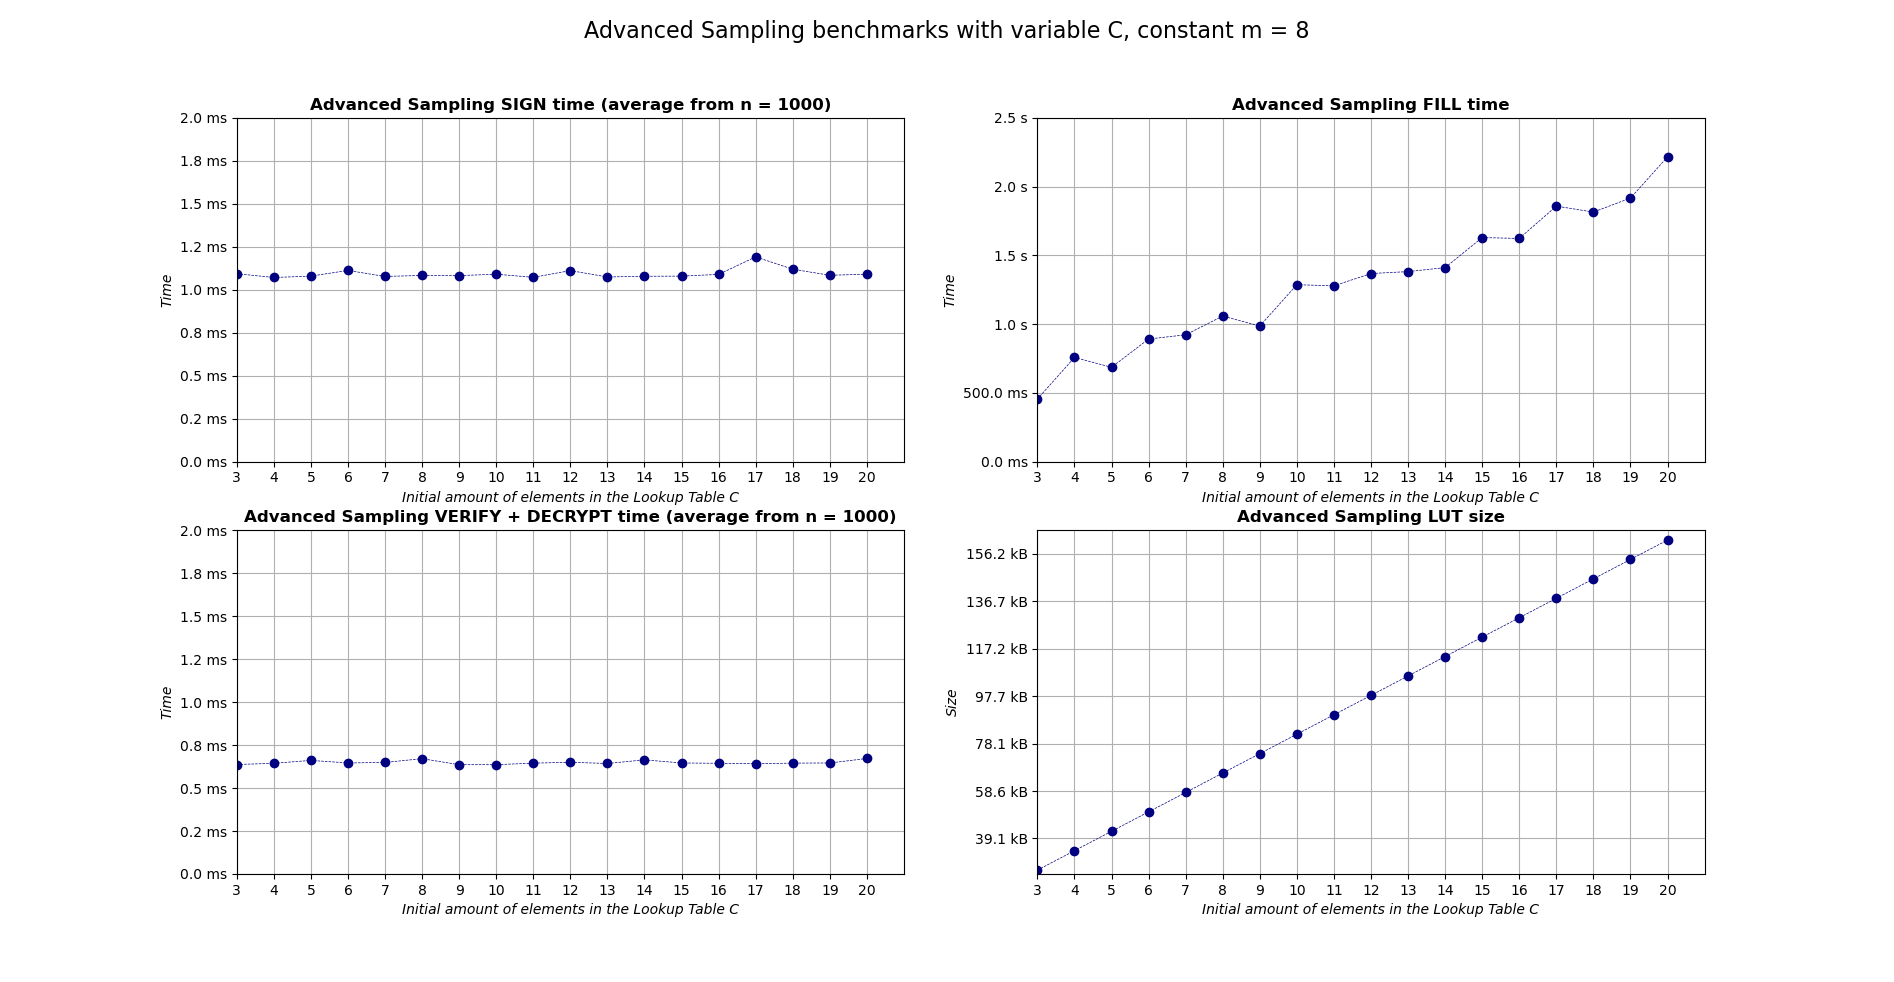
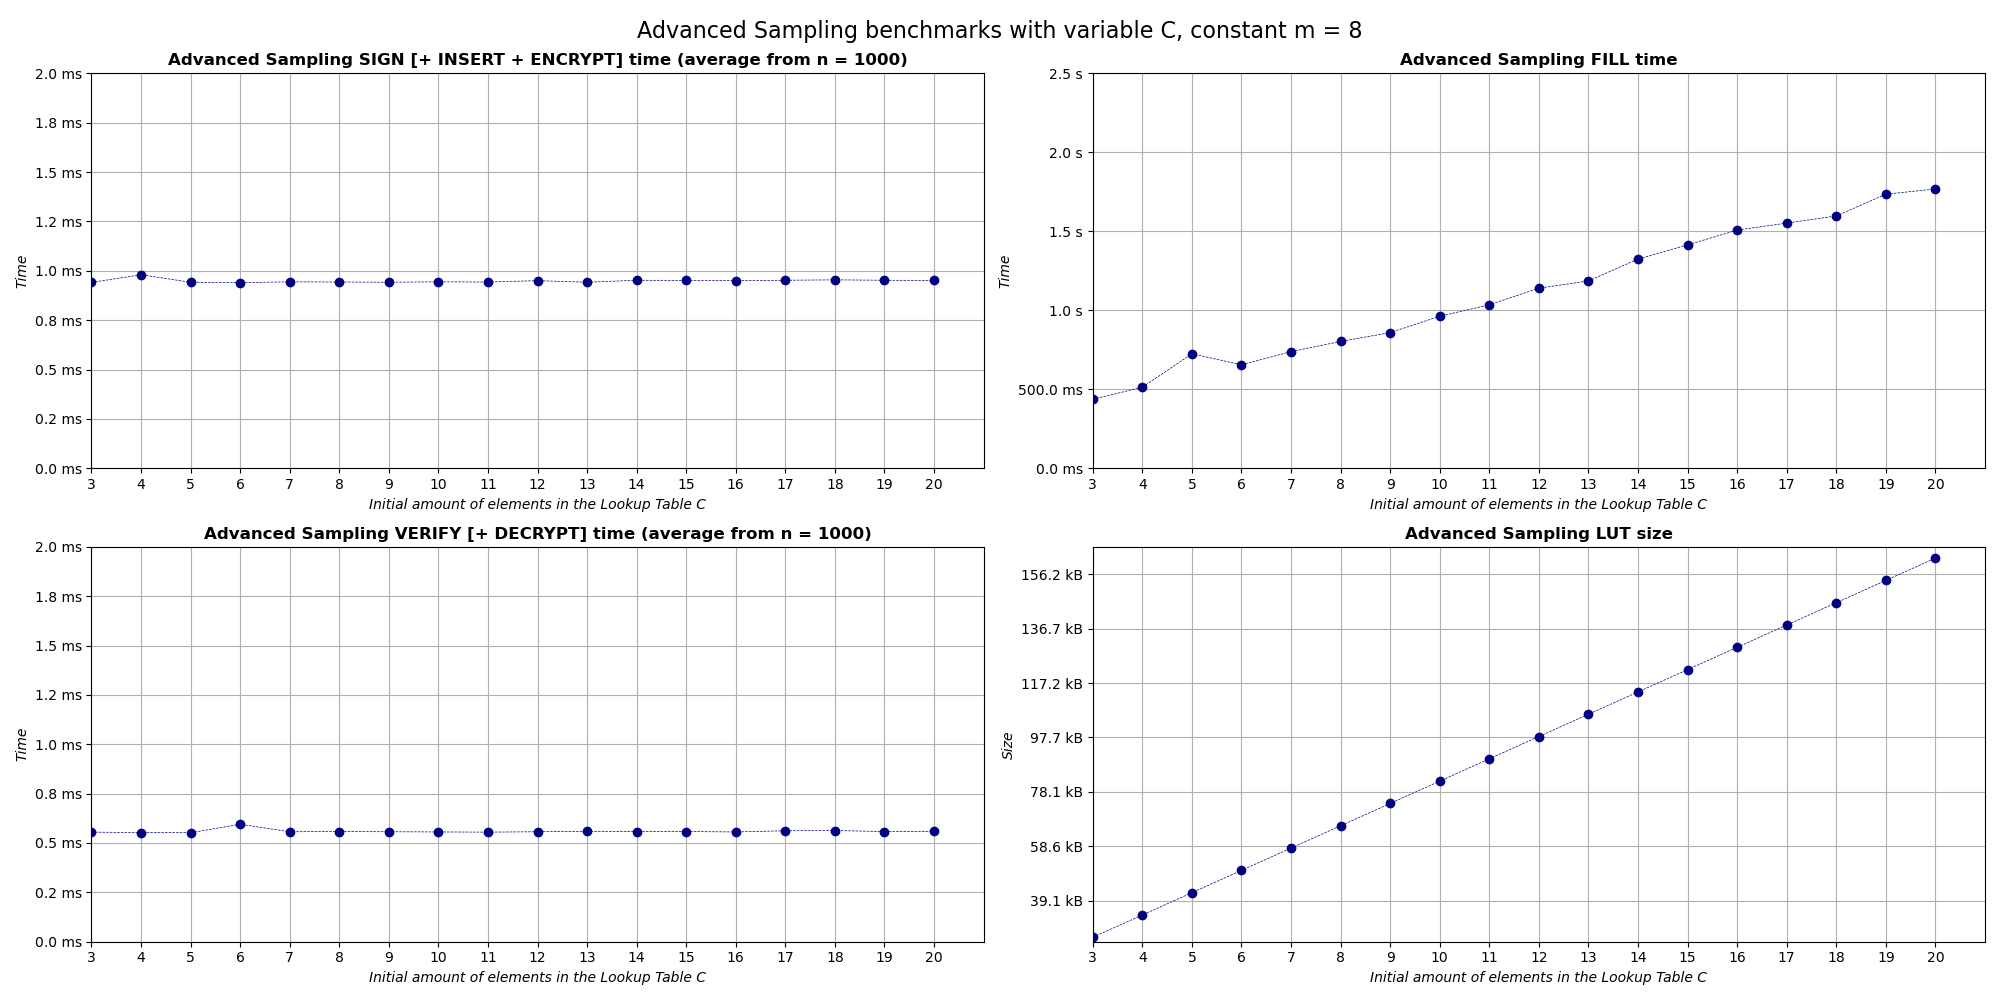
Add automatic benchmark visualization

diff --git a/benchmarks/visualize_benchmarks.py b/benchmarks/visualize_benchmarks.py
@@ -34,10 +34,15 @@ def time_lossy_fmt(x, pos):
     x /= 60
     return "%3.2f %s" % (x, x_unit[2])
 
+fig_size = [10, 10]
+fig_size_wide = [20, 10]
+tight_layout = False
 
 x_m = [i for i in range(1, 17)]
-y_rs_sign = [0.678, 0.733, 0.842, 0.923, 1.201, 1.669, 2.849, 4.706, 8.209, 18.922, 33.353, 63.038, 121.048, 244.282, 624.518, 1045.035]
-y_rs_verif = [0.585, 0.603, 0.656, 0.670, 0.682, 1.050, 0.729, 0.673, 0.684, 0.683, 0.702, 0.695, 0.688, 0.701, 1.011, 0.710]
+#y_rs_sign = [0.678, 0.733, 0.842, 0.923, 1.201, 1.669, 2.849, 4.706, 8.209, 18.922, 33.353, 63.038, 121.048, 244.282, 624.518, 1045.035]
+#y_rs_verif = [0.585, 0.603, 0.656, 0.670, 0.682, 1.050, 0.729, 0.673, 0.684, 0.683, 0.702, 0.695, 0.688, 0.701, 1.011, 0.710]
+y_rs_sign = [0 for i in range(1, 17)]
+y_rs_verif = [0 for i in range(1, 17)]
 
 with open("rs_benchmark_results.out", "r") as f:
     column_names = f.readline().strip().split(",")
@@ -52,10 +57,11 @@ with open("rs_benchmark_results.out", "r") as f:
 print(y_rs_sign)
 print(y_rs_verif)
 
-y_as_fill = [3.640, 7.861, 16.459, 39.720, 75.515, 182.534, 309.605, 661.855, 1499.275, 3569.076, 6582.784, 14468.181, 27361.288, 63752.537, 124624.051, 238438.082]
-y_as_lut_size = [344, 680, 1352, 2696, 5381, 10760, 21512, 43012, 86011, 172022, 344039, 688051, 1376108, 2752223, 5504416, 11008758]
-y_as_sign = [1.011, 1.093, 1.130, 1.130, 1.120, 1.122, 1.132, 1.104, 1.111, 1.168, 1.099, 1.136, 1.181, 1.184, 1.162, 1.120]
-y_as_verif = [0.635, 0.630, 0.655, 0.635, 0.680, 0.653, 0.649, 0.693, 0.655, 0.646, 0.642, 0.660, 0.749, 0.686, 0.672, 0.649]
+#y_as_fill = [3.640, 7.861, 16.459, 39.720, 75.515, 182.534, 309.605, 661.855, 1499.275, 3569.076, 6582.784, 14468.181, 27361.288, 63752.537, 124624.051, 238438.082]
+#y_as_lut_size = [344, 680, 1352, 2696, 5381, 10760, 21512, 43012, 86011, 172022, 344039, 688051, 1376108, 2752223, 5504416, 11008758]
+#y_as_sign = [1.011, 1.093, 1.130, 1.130, 1.120, 1.122, 1.132, 1.104, 1.111, 1.168, 1.099, 1.136, 1.181, 1.184, 1.162, 1.120]
+#y_as_verif = [0.635, 0.630, 0.655, 0.635, 0.680, 0.653, 0.649, 0.693, 0.655, 0.646, 0.642, 0.660, 0.749, 0.686, 0.672, 0.649]
+y_as_fill, y_as_lut_size, y_as_sign, y_as_verif = ([0 for _ in range(1, 17)] for _ in range(4))
 
 with open("as_var_M_benchmark_results.out", "r") as f:
     column_names = f.readline().strip().split(",")
@@ -76,10 +82,11 @@ print(y_as_sign)
 print(y_as_verif)
 
 x_C = [i for i in range(3, 21)]
-y_as_fill_const_m = [454.498, 757.061, 685.654, 891.153, 921.880, 1058.048, 985.858, 1286.219, 1278.191, 1367.442, 1381.675, 1410.611, 1629.252, 1622.521, 1857.896, 1814.492, 1916.452, 2216.010]
-y_as_lut_size_const_m = [26630, 34822, 43013, 51204, 59390, 67591, 75781, 83969, 92158, 100348, 108541, 116730, 124921, 133114, 141301, 149505, 157691, 165878]
-y_as_sign_const_m = [1.093, 1.071, 1.079, 1.112, 1.077, 1.083, 1.082, 1.090, 1.072, 1.111, 1.074, 1.078, 1.079, 1.089, 1.191, 1.119, 1.084, 1.090]
-y_as_verif_const_m = [0.637, 0.644, 0.661, 0.646, 0.649, 0.671, 0.636, 0.636, 0.645, 0.650, 0.643, 0.664, 0.646, 0.644, 0.642, 0.645,0.646,  0.672]
+#y_as_fill_const_m = [454.498, 757.061, 685.654, 891.153, 921.880, 1058.048, 985.858, 1286.219, 1278.191, 1367.442, 1381.675, 1410.611, 1629.252, 1622.521, 1857.896, 1814.492, 1916.452, 2216.010]
+#y_as_lut_size_const_m = [26630, 34822, 43013, 51204, 59390, 67591, 75781, 83969, 92158, 100348, 108541, 116730, 124921, 133114, 141301, 149505, 157691, 165878]
+#y_as_sign_const_m = [1.093, 1.071, 1.079, 1.112, 1.077, 1.083, 1.082, 1.090, 1.072, 1.111, 1.074, 1.078, 1.079, 1.089, 1.191, 1.119, 1.084, 1.090]
+#y_as_verif_const_m = [0.637, 0.644, 0.661, 0.646, 0.649, 0.671, 0.636, 0.636, 0.645, 0.650, 0.643, 0.664, 0.646, 0.644, 0.642, 0.645,0.646,  0.672]
+y_as_fill_const_m, y_as_lut_size_const_m, y_as_sign_const_m, y_as_verif_const_m = ([0 for _ in range(3, 21)] for _ in range(4))
 
 with open("as_var_C_benchmark_results.out", "r") as f:
     column_names = f.readline().strip().split(",")
@@ -101,14 +108,15 @@ print(y_as_verif_const_m)
 
 print(len(x_C), len(y_as_fill_const_m), len(y_as_lut_size_const_m), len(y_as_sign_const_m), len(y_as_verif_const_m))
 
-y_baseline_sign = [0.315 for x in range(1, 17)]
-y_baseline_verif = [0.288 for x in range(1, 17)]
+#y_baseline_sign = [0.315 for x in range(1, 17)]
+#y_baseline_verif = [0.288 for x in range(1, 17)]
+y_baseline_sign, y_baseline_verif = ([0 for _ in range(1, 17)] for _ in range(2))
 
 with open("ecdsa_benchmark_results.out", "r") as f:
     column_names = f.readline().strip().split(",")
     for i, line in enumerate(f):
         vals = line.strip().split(",")
-        y_baseline_sign[i] = float(vals[1])
+        y_baseline_sign[i] = float(vals[0])
         y_baseline_verif[i] = float(vals[1])
 
 y_baseline_sign = [y_baseline_sign[0] for x in range(1, 17)]
@@ -117,18 +125,19 @@ y_baseline_verif = [y_baseline_verif[0] for x in range(1, 17)]
 print(y_baseline_sign)
 print(y_baseline_verif)
 
-fig, axes = plt.subplots(2, 2, figsize=[7,5])
-axes[0,1].set_axis_off()
-axes[1,1].set_axis_off()
+fig, axes = plt.subplots(2, 1, figsize=fig_size, tight_layout=tight_layout)
+#axes[0,1].set_axis_off()
+#axes[1,1].set_axis_off()
+
 xdata = x_m
 ydata = [y_rs_sign, y_rs_verif]
 ylabel = ["Time (log scale)", "Time"]
 ylim = [(0.1, 10 ** 4), (0, 2)]
 scale = ["log", "linear"]
-titles = ["Rejection Sampling SIGN time (average from n = 100)", "Rejection Sampling VERIFY + DECRYPT time (average from n = 100)"]
+titles = ["Rejection Sampling SIGN [+ ENCRYPT] time (average from n = 100)", "Rejection Sampling VERIFY [+ DECRYPT] time (average from n = 100)"]
 fmt = [time_lossy_fmt, time_fmt]
 for i in range(2):
-    ax = axes[i][0]
+    ax = axes[i]
     #fig = plt.figure(figsize=[7,5])
     #ax = f
 
@@ -166,7 +175,9 @@ for i in range(2):
     ttl = ax.title
     ttl.set_weight('bold')
 
-fig, axes = plt.subplots(2, 2, figsize=[7,5])
+fig.savefig("RS.png")
+
+fig, axes = plt.subplots(2, 2, figsize=fig_size_wide, tight_layout=tight_layout)
 xdata = x_m
 ydata = [y_as_sign, y_as_verif, y_as_fill,  y_as_lut_size]
 ylabel = ["Time", "Time", "Time (log scale)",  "Size (log scale)"]
@@ -218,7 +229,9 @@ for i in range(4):
     ttl = ax.title
     ttl.set_weight('bold')
 
-fig, axes = plt.subplots(2, 2, figsize=[7,5])
+fig.savefig("AS_m.png")
+
+fig, axes = plt.subplots(2, 2, figsize=fig_size_wide, tight_layout=tight_layout)
 xdata = x_C
 ydata = [y_as_sign_const_m, y_as_verif_const_m, y_as_fill_const_m,  y_as_lut_size_const_m]
 ylabel = ["Time", "Time", "Time",  "Size"]
@@ -270,12 +283,14 @@ for i in range(4):
     ttl = ax.title
     ttl.set_weight('bold')
 
-# all plots
-fig, axes = plt.subplots(2, 2, figsize=[7,5])
-axes[0,1].set_axis_off()
-axes[1,1].set_axis_off()
+fig.savefig("AS_C.png")
 
-ax = axes[0][0]
+# all plots
+fig, axes = plt.subplots(2, 1, figsize=fig_size, tight_layout=tight_layout)
+#axes[0,1].set_axis_off()
+#axes[1,1].set_axis_off()
+
+ax = axes[0]
 
 # set the grid on
 ax.grid('on')
@@ -321,7 +336,7 @@ ylab.set_size(10)
 ttl = ax.title
 ttl.set_weight('bold')
 
-ax = axes[1][0]
+ax = axes[1]
 
 # set the grid on
 ax.grid('on')
@@ -365,4 +380,5 @@ ylab.set_size(10)
 ttl = ax.title
 ttl.set_weight('bold')
 
-plt.show()
+fig.savefig("All.png")
+#plt.show()

diff --git a/README.md b/README.md
@@ -112,7 +112,7 @@ The recovered message should be the same as provided in the signing step. If its
 
 # Benchmarks
 
-To run benchmarks and visualize, first build and cd into the benchmarks folder:
+To run benchmarks, first build all binaries and cd into the benchmarks folder:
 
 ```bash
 cd benchmarks
@@ -124,7 +124,7 @@ Then, run all of the benchmarks to generate output csv files:
 ./benchmark -ecdsa && ./benchmark -rs && ./benchmark -as 0 5 && ./benchmark -as 8 0
 ```
 
-To visualize benchmark results, run the python script (requires `matplotlib`):
+To visualize benchmark results, run the python script (requires `matplotlib` and `numpy`):
 ```bash
 python visualize_benchmarks.py
 ```
